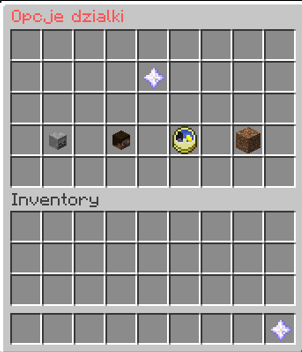
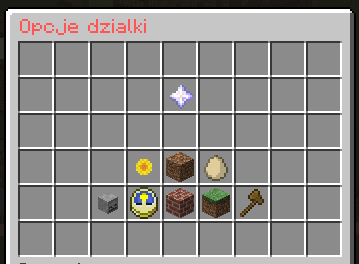
Build Battle

diff --git a/minigames/build-battle.md b/minigames/build-battle.md
@@ -30,20 +30,61 @@ Temat i czas są wyświetlane na scoreboardzie.
 
 ![Scoreboard](/assets/buildbattle/build-battle-temat-i-czas.png)
 
-Czas na Budowle Gra Solo - 4:40
+Czas na Budowle Gra Solo - 5 minut
 
-Czas na Budowle Gra Duo - 7:40
+Czas na Budowle Gra Duo - 8 minut
 
 ## Wymiary Działki
-Gra solo - 27x27x25
+Gra solo - 31x31x30
 
-Gra duo - 40x40x35
+Gra duo - 43x43x30
 
 
 ## Opcje działki
-W opcjach działki możesz postawić nowych NPC, zamienić podłogę na Twojej działce lub nawet wziąć sobie przedmioty dekoracyjne!
+W opcjach działki możesz:
+- Zmienić pogodę
+- Zmienić podłogę
+- Postawic NPC
+- Dodać kolorowe głowki
+- Zmienić czas na arenie
+- Zmienic biom
 
 ![Opcje dzialki](/assets/buildbattle/build-battle-opcje-dzialki.png)
+
+## Pogoda
+Istnieją 3 rodzaje pogody
+- Słoneczna
+- Deszczowa
+- Burzowa
+
+![Pogoda](/assets/buildbattle/build-battle-pogoda.png)
+
+## Podłoga
+Możliwośc dodania 5 wariantów podłogi z wybranych przez gracza bloków. Bloki dodaje się w cegle, a środkowy kamień ustawia podłogę
+
+![Podłoga](/assets/buildbattle/build-battle-podloga.png)
+
+## NPC
+Gracz dostaje jajko wybranego NPC do ekwipunku.
+
+Interakcje z NPC: możemy je ożywic, zmienić ich wzrost, a niektóre możemy posadzić (kot, wilk) oraz zmienić ich kolor umaszczenia (kot, koń, wilk oraz villager)
+
+## Biomy
+- Łąka
+- Las
+- Pustynia
+- Ocean
+- Dżungla
+- Bagna
+- Nether
+- Tajga
+- Plaża
+- Zarośniety las
+- Sawanna
+- Messa
+- Kwiecist las
+
+![Biomy](/assets/buildbattle/build-battle-biomy.png)
 
 ## Faza Oceniania
 Faza Oceniania, ostatnie momenty rozgrywki polegają na ocenianiu budowli wybudowanych przez graczy. 
@@ -56,18 +97,60 @@ Okropne (Czerwona Glina)
 
 Brzydkie (Różowa Glina)
 
-Nawet nawet (Zielona Glina)
+Nawet nawet (Jasnozielona Glina)
 
-Dobre (Jasnozielona Glina)
+Dobre (Zielona Glina)
 
-Kozak (Jasnoniebieska Glina)
+Kozak (Fioletowa Glina)
 
 KOOKS! (Żółta Glina)
 
 ![Ocenianie](/assets/buildbattle/build-battle-ocena.png)
+
+## KOKS Budowla
+
+Dzieje się tak gdy przynajmniej 5-ciu graczy zagłosuje oceną "KOKS"
+
+![KOKS Budowla](/assets/buildbattle/build-battle-KOKS-budowla.png)
 
 ## Koniec Gry
 
 Po całym ocenianiu, na czacie pokazują się osoby na podium, które zajęły pierwsze, drugie i trzecie miejsce w grze, zarazem pokazując budowle, która wygrała.
 
 ![Wygrana](/assets/buildbattle/build-battle-wygrana.png)
+
+## Punkty Rangi
+
+### **Build Battle**
+
+ Wygrana - 20
+
+ Oddanie głosu - 1
+
+ KOKS Budowla - 5
+
+### **Kalambury**
+
+Wygrana - 10
+
+Zgadnięcie tematu - 2
+
+### **Speed Builders**
+
+Wygrana - 10
+
+Perfect Match - 1 
+
+
+| **Nazwa**                                         |  **Poziom**  | **Punkty**   |
+|---------------------------------------------------|--------------|--------------|
+| ![Speed Builders](/assets/buildbattle/ranga0.png) | 0-19         | 500          |
+| ![Speed Builders](/assets/buildbattle/ranga1.png) | 20-39        | 600          |
+| ![Speed Builders](/assets/buildbattle/ranga2.png) | 40-59        | 650          |
+| ![Speed Builders](/assets/buildbattle/ranga3.png) | 60-79        | 700          |
+| ![Speed Builders](/assets/buildbattle/ranga4.png) | 80-99        | 750          |
+| ![Speed Builders](/assets/buildbattle/ranga5.png) | 100-119      | 800          |
+| ![Speed Builders](/assets/buildbattle/ranga6.png) | 120-139      | 850          |
+| ![Speed Builders](/assets/buildbattle/ranga7.png) | 140-159      | 900          |
+| ![Speed Builders](/assets/buildbattle/ranga8.png) | 160-179      | 950          |
+| ![Speed Builders](/assets/buildbattle/ranga9.png) | 180+         | 1000         |
